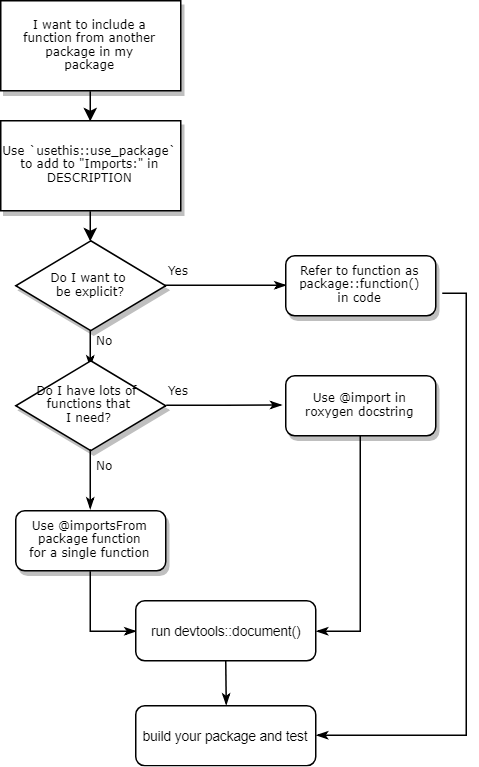
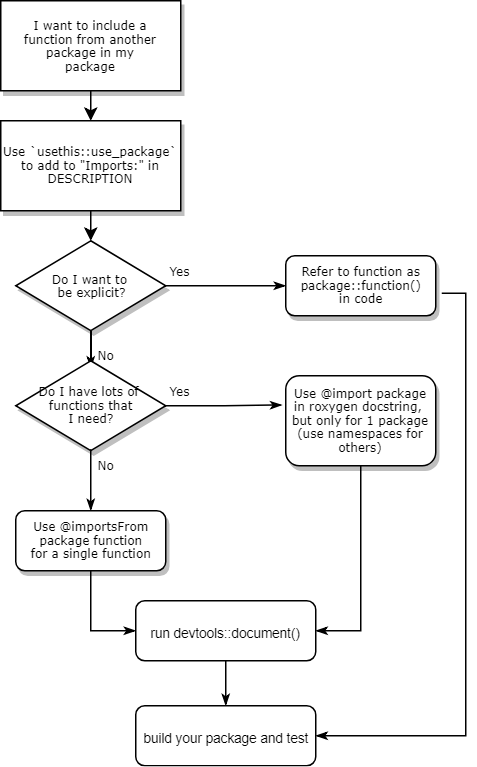
updating namespace post

diff --git a/2019/02/12/package-building-description-namespace/index.html b/2019/02/12/package-building-description-namespace/index.html
@@ -323,7 +323,7 @@ Namespaces: Why Bother? In short, we need namespaces because of the ambiguity of
   
   <span class="middot-divider"></span>
   <span class="article-reading-time">
-    7 min read
+    8 min read
   </span>
   
 
@@ -515,9 +515,9 @@ shinyUI &lt;- function() {
 }
 </code></pre>
 
-<h2 id="be-careful-about-importing-multiple-packages">Be careful about importing multiple packages</h2>
+<h2 id="importing-multiple-packages-just-don-t-do-it-updated">Importing multiple packages: just don&rsquo;t do it (UPDATED).</h2>
 
-<p>Just a note to be careful about importing multiple package namespaces. Make sure there aren’t any possible collisions in function names between the packages. If that’s the case, import one package and use @iimportsFrom or namespaces to refer to functions in the other one.</p>
+<p>Just a note to not import multiple packages using <code>@imports</code>. As Hadley Wickham has noted, you have no control over the development of the packages you import. Just because there are no function collisions right now between the packages doesn&rsquo;t mean that one of the developers may add a function down the line that might collide. So, if you need to use multiple packages, <code>@import</code> one package and use <code>@importsFrom</code> or namespaces to refer to functions in the other packages.</p>
 
 <h2 id="remember-to-run-devtools-document">Remember to run <code>devtools::document()</code></h2>
 
@@ -553,7 +553,7 @@ use_filter &lt;- function(df, cutoff=0.5) {
 <ol>
 <li>Use <code>usethis::use_package()</code> to edit your DESCRIPTION file.</li>
 <li>Use namespaces (such as <code>mypackage::usefilter()</code>) to refer to external functions where possible to avoid collisions in function names when you are writing code.<br /></li>
-<li>Use <code>@imports</code> and <code>@importsFrom</code> judiciously in your <code>roxygen</code> documentation if you need to use many functions in a package. Remember to run <code>devtools::document()</code> after you modify/add these fields to the roxygen documentation. Be careful about using more than one @imports statement in a function.</li>
+<li>Use <code>@imports</code> and <code>@importsFrom</code> judiciously in your <code>roxygen</code> documentation if you need to use many functions in a package. Remember to run <code>devtools::document()</code> after you modify/add these fields to the roxygen documentation. Use only 1 <code>@import</code> statement in a function, use namespaces/<code>@importsFrom</code> for the other packages.</li>
 <li>Expose functions you want to be made public using <code>@export</code>.</li>
 </ol>
 
@@ -567,7 +567,12 @@ use_filter &lt;- function(df, cutoff=0.5) {
 <li>More about the <code>DESCRIPTION</code> file: <a href="http://r-pkgs.had.co.nz/description.html" target="_blank">http://r-pkgs.had.co.nz/description.html</a></li>
 <li>More about namespaces: <a href="http://r-pkgs.had.co.nz/namespace.html" target="_blank">http://r-pkgs.had.co.nz/namespace.html</a></li>
 <li>More about roxygen: <a href="http://r-pkgs.had.co.nz/man.html#roxygen-comments" target="_blank">http://r-pkgs.had.co.nz/man.html#roxygen-comments</a></li>
+<li>An alternative workflow to modify the <code>DESCRIPTION</code> file: You can use <code>attachment::att_to_description()</code> to scan code and add packages to the file after coding (thanks,  Sébastien!).</li>
 </ul>
+
+<h2 id="acknowledgements">Acknowledgements</h2>
+
+<p>Thanks to Hao Ye, Sébastien Rochette, Michael Chirico, and Hadley Wickham for their comments. I&rsquo;ve incorporated your suggestions.</p>
 
 <h2 id="note">Note</h2>
 

diff --git a/2017/06/28/howtonotbeafraid/index.html b/2017/06/28/howtonotbeafraid/index.html
@@ -407,15 +407,15 @@ Many graduate students in the basic sciences are afraid of data exploration and 
   <h3>Related</h3>
   <ul>
     
-    <li><a href="/teaching/categorical_data/">Introduction to Categorical Data Analysis</a></li>
-    
     <li><a href="/project/categorical_data/">Introduction to Categorical Data Analysis</a></li>
     
-    <li><a href="/teaching/cvd_risk/">Cardiovascular Risk Workshop</a></li>
+    <li><a href="/teaching/clinical_wrangling/">Clinical Data Wrangling Workshop</a></li>
     
     <li><a href="/teaching/gradual_shiny/">A gRadual intRoduction to Shiny</a></li>
     
-    <li><a href="/teaching/clinical_wrangling/">Clinical Data Wrangling Workshop</a></li>
+    <li><a href="/teaching/cvd_risk/">Cardiovascular Risk Workshop</a></li>
+    
+    <li><a href="/teaching/categorical_data/">Introduction to Categorical Data Analysis</a></li>
     
   </ul>
 </div>

diff --git a/teaching/exacloud_tutorial/index.html b/teaching/exacloud_tutorial/index.html
@@ -406,15 +406,15 @@
   <h3>Related</h3>
   <ul>
     
-    <li><a href="/teaching/gradual_tidyverse/">A gRadual intRoduction to the tidyverse</a></li>
+    <li><a href="/teaching/github_pages/">Introduction to Github Pages</a></li>
+    
+    <li><a href="/teaching/igraph_tutorial/">Introduction to igraph</a></li>
+    
+    <li><a href="/teaching/clinical_wrangling/">Clinical Data Wrangling Workshop</a></li>
     
     <li><a href="/teaching/cvd_risk/">Cardiovascular Risk Workshop</a></li>
     
-    <li><a href="/teaching/magic_of_markdown/">The Magic of Markdown</a></li>
-    
-    <li><a href="/teaching/categorical_data/">Introduction to Categorical Data Analysis</a></li>
-    
-    <li><a href="/teaching/gradual_shiny/">A gRadual intRoduction to Shiny</a></li>
+    <li><a href="/teaching/gradual_tidyverse/">A gRadual intRoduction to the tidyverse</a></li>
     
   </ul>
 </div>

diff --git a/teaching/gradual_shiny/index.html b/teaching/gradual_shiny/index.html
@@ -406,15 +406,15 @@
   <h3>Related</h3>
   <ul>
     
-    <li><a href="/teaching/gradual_tidyverse/">A gRadual intRoduction to the tidyverse</a></li>
+    <li><a href="/teaching/categorical_data/">Introduction to Categorical Data Analysis</a></li>
     
     <li><a href="/teaching/clinical_wrangling/">Clinical Data Wrangling Workshop</a></li>
     
-    <li><a href="/teaching/categorical_data/">Introduction to Categorical Data Analysis</a></li>
+    <li><a href="/teaching/gradual_tidyverse/">A gRadual intRoduction to the tidyverse</a></li>
     
     <li><a href="/teaching/cvd_risk/">Cardiovascular Risk Workshop</a></li>
     
-    <li><a href="/project/categorical_data/">Introduction to Categorical Data Analysis</a></li>
+    <li><a href="/teaching/github_pages/">Introduction to Github Pages</a></li>
     
   </ul>
 </div>

diff --git a/teaching/cvd_risk/index.html b/teaching/cvd_risk/index.html
@@ -408,15 +408,15 @@
   <h3>Related</h3>
   <ul>
     
-    <li><a href="/teaching/gradual_shiny/">A gRadual intRoduction to Shiny</a></li>
-    
     <li><a href="/teaching/clinical_wrangling/">Clinical Data Wrangling Workshop</a></li>
     
     <li><a href="/teaching/categorical_data/">Introduction to Categorical Data Analysis</a></li>
     
-    <li><a href="/teaching/igraph_tutorial/">Introduction to igraph</a></li>
+    <li><a href="/teaching/gradual_shiny/">A gRadual intRoduction to Shiny</a></li>
     
-    <li><a href="/teaching/data_analytics/">Data Analytics</a></li>
+    <li><a href="/teaching/gradual_tidyverse/">A gRadual intRoduction to the tidyverse</a></li>
+    
+    <li><a href="/project/categorical_data/">Introduction to Categorical Data Analysis</a></li>
     
   </ul>
 </div>

diff --git a/teaching/igraph_tutorial/index.html b/teaching/igraph_tutorial/index.html
@@ -408,13 +408,13 @@
     
     <li><a href="/teaching/clinical_wrangling/">Clinical Data Wrangling Workshop</a></li>
     
-    <li><a href="/teaching/gradual_shiny/">A gRadual intRoduction to Shiny</a></li>
-    
-    <li><a href="/teaching/data_analytics/">Data Analytics</a></li>
-    
     <li><a href="/teaching/categorical_data/">Introduction to Categorical Data Analysis</a></li>
     
-    <li><a href="/teaching/gradual_tidyverse/">A gRadual intRoduction to the tidyverse</a></li>
+    <li><a href="/teaching/github_pages/">Introduction to Github Pages</a></li>
+    
+    <li><a href="/teaching/r-bootcamp/">R Bootcamp</a></li>
+    
+    <li><a href="/teaching/cvd_risk/">Cardiovascular Risk Workshop</a></li>
     
   </ul>
 </div>

diff --git a/teaching/gradual_tidyverse/index.html b/teaching/gradual_tidyverse/index.html
@@ -408,13 +408,13 @@
     
     <li><a href="/teaching/gradual_shiny/">A gRadual intRoduction to Shiny</a></li>
     
-    <li><a href="/teaching/clinical_wrangling/">Clinical Data Wrangling Workshop</a></li>
+    <li><a href="/teaching/magic_of_markdown/">The Magic of Markdown</a></li>
     
-    <li><a href="/teaching/igraph_tutorial/">Introduction to igraph</a></li>
+    <li><a href="/teaching/cvd_risk/">Cardiovascular Risk Workshop</a></li>
     
     <li><a href="/teaching/categorical_data/">Introduction to Categorical Data Analysis</a></li>
     
-    <li><a href="/teaching/magic_of_markdown/">The Magic of Markdown</a></li>
+    <li><a href="/teaching/igraph_tutorial/">Introduction to igraph</a></li>
     
   </ul>
 </div>

diff --git a/teaching/data_analytics/index.html b/teaching/data_analytics/index.html
@@ -406,15 +406,15 @@
   <h3>Related</h3>
   <ul>
     
-    <li><a href="/teaching/health_informatics/">Health Informatics</a></li>
+    <li><a href="/teaching/r-bootcamp/">R Bootcamp</a></li>
     
     <li><a href="/teaching/cvd_risk/">Cardiovascular Risk Workshop</a></li>
     
+    <li><a href="/teaching/igraph_tutorial/">Introduction to igraph</a></li>
+    
     <li><a href="/teaching/clinical_wrangling/">Clinical Data Wrangling Workshop</a></li>
     
-    <li><a href="/teaching/r-bootcamp/">R Bootcamp</a></li>
-    
-    <li><a href="/teaching/igraph_tutorial/">Introduction to igraph</a></li>
+    <li><a href="/teaching/health_informatics/">Health Informatics</a></li>
     
   </ul>
 </div>

diff --git a/teaching/clinical_wrangling/index.html b/teaching/clinical_wrangling/index.html
@@ -408,15 +408,15 @@
   <h3>Related</h3>
   <ul>
     
-    <li><a href="/teaching/gradual_shiny/">A gRadual intRoduction to Shiny</a></li>
-    
     <li><a href="/teaching/cvd_risk/">Cardiovascular Risk Workshop</a></li>
     
     <li><a href="/teaching/igraph_tutorial/">Introduction to igraph</a></li>
     
     <li><a href="/teaching/categorical_data/">Introduction to Categorical Data Analysis</a></li>
     
-    <li><a href="/teaching/gradual_tidyverse/">A gRadual intRoduction to the tidyverse</a></li>
+    <li><a href="/teaching/gradual_shiny/">A gRadual intRoduction to Shiny</a></li>
+    
+    <li><a href="/teaching/r-bootcamp/">R Bootcamp</a></li>
     
   </ul>
 </div>

diff --git a/teaching/github_pages/index.html b/teaching/github_pages/index.html
@@ -410,13 +410,13 @@
     
     <li><a href="/teaching/magic_of_markdown/">The Magic of Markdown</a></li>
     
-    <li><a href="/teaching/gradual_tidyverse/">A gRadual intRoduction to the tidyverse</a></li>
-    
-    <li><a href="/teaching/exacloud_tutorial/">Exacloud Tutorial</a></li>
-    
     <li><a href="/teaching/igraph_tutorial/">Introduction to igraph</a></li>
     
     <li><a href="/teaching/clinical_wrangling/">Clinical Data Wrangling Workshop</a></li>
+    
+    <li><a href="/teaching/cvd_risk/">Cardiovascular Risk Workshop</a></li>
+    
+    <li><a href="/teaching/gradual_tidyverse/">A gRadual intRoduction to the tidyverse</a></li>
     
   </ul>
 </div>

diff --git a/teaching/categorical_data/index.html b/teaching/categorical_data/index.html
@@ -406,13 +406,13 @@
   <h3>Related</h3>
   <ul>
     
+    <li><a href="/teaching/cvd_risk/">Cardiovascular Risk Workshop</a></li>
+    
     <li><a href="/teaching/gradual_shiny/">A gRadual intRoduction to Shiny</a></li>
     
     <li><a href="/teaching/clinical_wrangling/">Clinical Data Wrangling Workshop</a></li>
     
     <li><a href="/project/categorical_data/">Introduction to Categorical Data Analysis</a></li>
-    
-    <li><a href="/teaching/cvd_risk/">Cardiovascular Risk Workshop</a></li>
     
     <li><a href="/project/visual_intro_clustering/">A Visual Introduction to Clustering Algorithms</a></li>
     

diff --git a/teaching/r-bootcamp/index.html b/teaching/r-bootcamp/index.html
@@ -404,11 +404,11 @@
   <h3>Related</h3>
   <ul>
     
-    <li><a href="/teaching/gradual_tidyverse/">A gRadual intRoduction to the tidyverse</a></li>
+    <li><a href="/teaching/igraph_tutorial/">Introduction to igraph</a></li>
     
     <li><a href="/teaching/clinical_wrangling/">Clinical Data Wrangling Workshop</a></li>
     
-    <li><a href="/teaching/igraph_tutorial/">Introduction to igraph</a></li>
+    <li><a href="/teaching/gradual_tidyverse/">A gRadual intRoduction to the tidyverse</a></li>
     
     <li><a href="/teaching/data_analytics/">Data Analytics</a></li>
     
